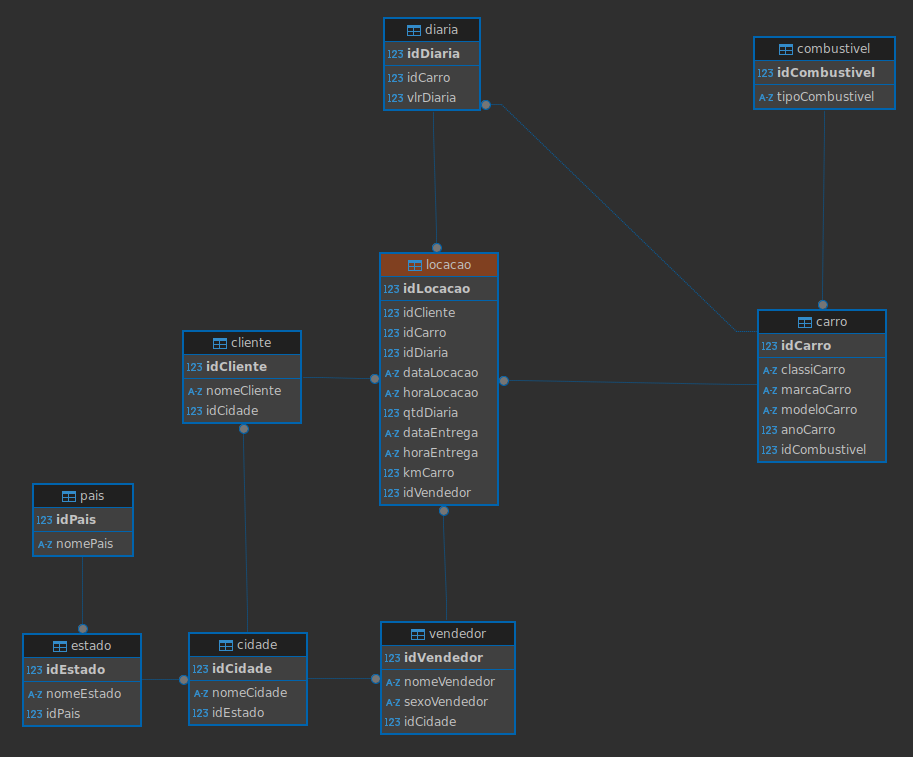
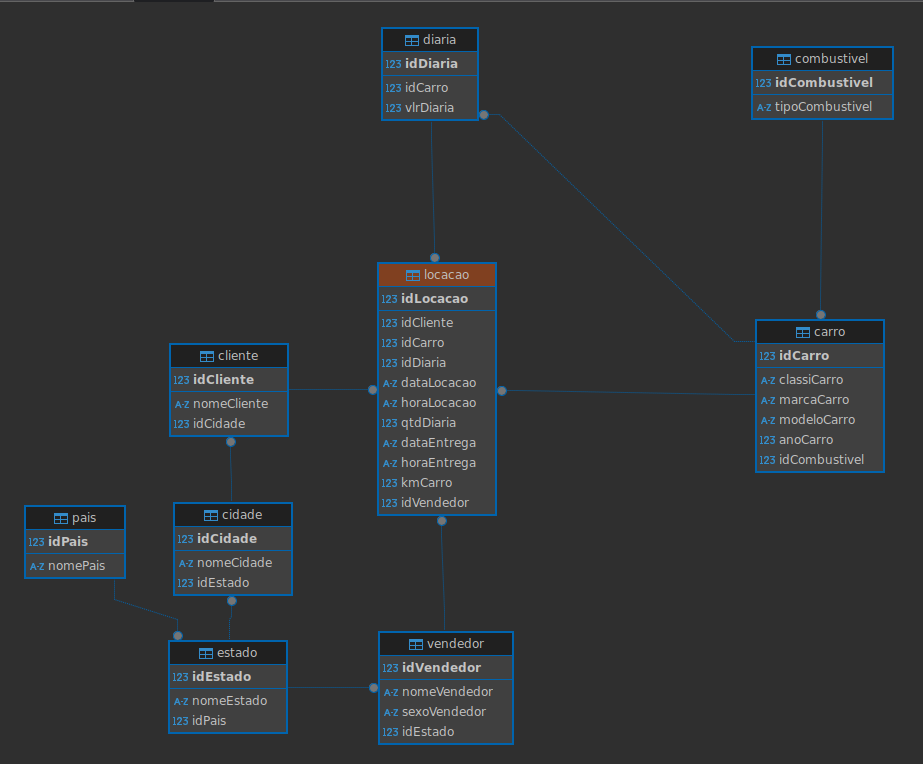
correção README.md do desafio

diff --git a/Sprint 1/Desafio/README.md b/Sprint 1/Desafio/README.md
@@ -263,9 +263,9 @@ O resultado obtido com o código indica que todas as tabelas foram criadas com s
 ![amostra_3NF](../Evidências/4-amostra_3fn.png)
 
 ## Conclusão Modelagem Relacional
-O modelo relacional está disponível dentro da pasta etapa-1 como [modelo_relacional.sql](./etapa-1/modelo_relacional.sql)
+O modelo relacional na 3fn está disponível dentro da pasta etapa-1 como [modelo_relacional.sql](./etapa-1/modelo_relacional.sql)
 
-Abaixo está o modelo lógico após a normalização das tabelas gerada com a ajuda do editor DBeaver. O modelo lógico aponta as relações entre as tabelas obedecendo a normalização aplicada obedecendo o princípio da atomicidade bem como o afastamento das dependências parciais e transitivas. A tabela `pais` está relacionada a tabela `estado`, que está relacionada a tabela `cidade` que por sua vez se relaciona tanto a tabela `cliente` e `vendedor`. A tabela `combustivel` se relacionada somente com a tabela `carro`. Por sua vez a tabela `locacao` se relaciona com as tabelas `cliente`, `vendedor`, `carro` e `diaria`.
+Abaixo está o modelo lógico após a normalização das tabelas gerada com a ajuda do editor DBeaver. O modelo lógico aponta as relações entre as tabelas obedecendo a normalização aplicada obedecendo o princípio da atomicidade bem como o afastamento das dependências parciais e transitivas. A tabela `pais` está relacionada a tabela `estado`, que está relacionada a tabela `cidade` e a tabela `vendedor`; A tabela `cidade` por sua vez se relaciona tanto a tabela `cliente` e `vendedor`. A tabela `combustivel` se relacionada somente com a tabela `carro`. Por sua vez a tabela `locacao` se relaciona com as tabelas `cliente`, `vendedor`, `carro` e `diaria`.
 
 ![modelo relacional](./etapa-1/modelo_relacional.png)
 
